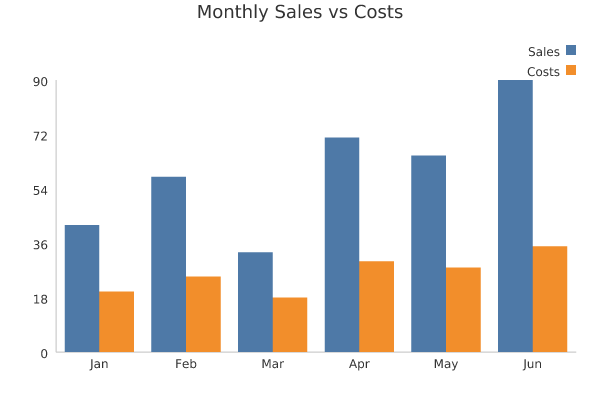
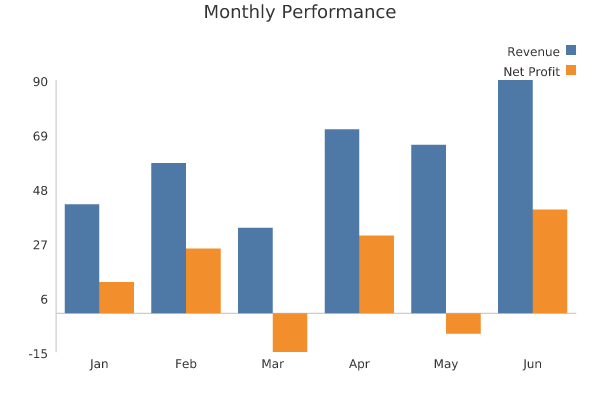
Update examples and README with negative value showcases

diff --git a/README.md b/README.md
@@ -6,7 +6,7 @@ It is very useful when you are developing a website and need to integrate SVG ch
 
 If you need to export or generate PNG charts for email, PDF, or sending via Telegram, Slack, Mattermost, etc., `Plotto.to_png/1` renders the same chart to a PNG binary, anti-aliased and with full Unicode text support (including accented characters like á, é, ñ) via a bundled DejaVu Sans font.
 
-Charts can also show an optional title and a legend (one color swatch + name row per series), positioned in any of the four corners — see `:title` and `:legend` in `Plotto.BarChart` or `Plotto.LineChart`.
+Charts can also show an optional title and a legend (one color swatch + name row per series), positioned in any of the four corners — see `:title` and `:legend` in `Plotto.BarChart` or `Plotto.LineChart`. Negative values and mixed positive/negative domains are fully supported with an automatic zero baseline.
 
 ## Usage
 
@@ -25,12 +25,12 @@ png = Plotto.to_png!(chart)
 
 ## Examples
 
-[examples/bar_chart.exs](examples/bar_chart.exs) generates the chart below (`mix run examples/bar_chart.exs`), with two series ("Sales" and "Costs") grouped per month and a top-right legend:
+[examples/bar_chart.exs](examples/bar_chart.exs) generates the chart below (`mix run examples/bar_chart.exs`), with two series ("Revenue" and "Net Profit"), mixed positive/negative values with a zero baseline, and a top-right legend:
 
 ```elixir
 data = [
   %{
-    name: "Sales",
+    name: "Revenue",
     data: [
       %{label: "Jan", value: 42},
       %{label: "Feb", value: 58},
@@ -41,19 +41,19 @@ data = [
     ]
   },
   %{
-    name: "Costs",
+    name: "Net Profit",
     data: [
-      %{label: "Jan", value: 20},
+      %{label: "Jan", value: 12},
       %{label: "Feb", value: 25},
-      %{label: "Mar", value: 18},
+      %{label: "Mar", value: -15},
       %{label: "Apr", value: 30},
-      %{label: "May", value: 28},
-      %{label: "Jun", value: 35}
+      %{label: "May", value: -8},
+      %{label: "Jun", value: 40}
     ]
   }
 ]
 
-chart = Plotto.BarChart.new!(data, title: "Monthly Sales vs Costs", legend: :top_right)
+chart = Plotto.BarChart.new!(data, title: "Monthly Performance", legend: :top_right)
 svg = Plotto.to_svg!(chart)
 png = Plotto.to_png!(chart)
 
@@ -63,24 +63,74 @@ File.write!(Path.join(__DIR__, "bar_chart.png"), png)
 
 ![Bar chart example](examples/bar_chart.png)
 
-[examples/line_chart.exs](examples/line_chart.exs) generates the same data as a line chart (`mix run examples/line_chart.exs`), this time with a bottom-left legend:
+[examples/stacked_bar_chart.exs](examples/stacked_bar_chart.exs) generates a stacked bar chart (`mix run examples/stacked_bar_chart.exs` with `mode: :stacked`):
 
 ```elixir
 data = [
   %{
-    name: "Sales",
+    name: "Hardware",
     data: [
-      %{label: "Jan", value: 42},
-      %{label: "Feb", value: 58},
-      %{label: "Mar", value: 33},
-      %{label: "Apr", value: 71},
-      %{label: "May", value: 65},
-      %{label: "Jun", value: 90}
+      %{label: "Q1", value: 45},
+      %{label: "Q2", value: 50},
+      %{label: "Q3", value: 40},
+      %{label: "Q4", value: 65}
+    ]
+  },
+  %{
+    name: "Software",
+    data: [
+      %{label: "Q1", value: 30},
+      %{label: "Q2", value: 35},
+      %{label: "Q3", value: 45},
+      %{label: "Q4", value: 55}
+    ]
+  },
+  %{
+    name: "Services",
+    data: [
+      %{label: "Q1", value: 20},
+      %{label: "Q2", value: 25},
+      %{label: "Q3", value: 30},
+      %{label: "Q4", value: 40}
     ]
   }
 ]
 
-chart = Plotto.LineChart.new!(data, title: "Monthly Sales", legend: :bottom_left)
+chart =
+  Plotto.BarChart.new!(
+    data,
+    mode: :stacked,
+    title: "Quarterly Revenue Breakdown",
+    legend: :top_right
+  )
+
+svg = Plotto.to_svg!(chart)
+png = Plotto.to_png!(chart)
+
+File.write!(Path.join(__DIR__, "stacked_bar_chart.svg"), svg)
+File.write!(Path.join(__DIR__, "stacked_bar_chart.png"), png)
+```
+
+![Stacked bar chart example](examples/stacked_bar_chart.png)
+
+[examples/line_chart.exs](examples/line_chart.exs) generates a line chart with temperatures crossing negative values (`mix run examples/line_chart.exs`), with a bottom-left legend:
+
+```elixir
+data = [
+  %{
+    name: "Temperature",
+    data: [
+      %{label: "Jan", value: -5},
+      %{label: "Feb", value: -2},
+      %{label: "Mar", value: 8},
+      %{label: "Apr", value: 15},
+      %{label: "May", value: 22},
+      %{label: "Jun", value: 28}
+    ]
+  }
+]
+
+chart = Plotto.LineChart.new!(data, title: "Monthly Temperatures (°C)", legend: :bottom_left)
 svg = Plotto.to_svg!(chart)
 png = Plotto.to_png!(chart)
 
